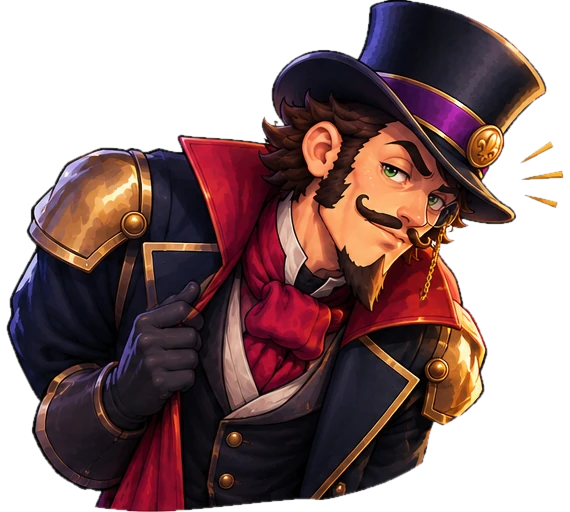
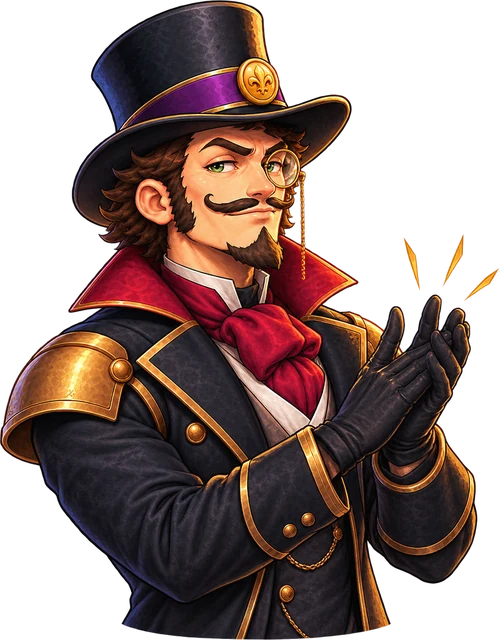
Eventos de Sir Edwards: aplauso para la racha y brindis para el récord personal
Claude-Session: https://claude.ai/code/session_01LDEVpXLeCAaeeLc8s8jMte

diff --git a/src/utils/sir-events.js b/src/utils/sir-events.js
@@ -46,7 +46,7 @@ const SEQSirEvents = (function () {
     broken: 'assets/character/event_siredwards_visit.webp',
     comeback: 'assets/character/event_siredwards_comeback.webp',
     weak: 'assets/character/event_siredwards_visit.webp',
-    record: 'assets/character/event_siredwards_streak.webp',
+    record: 'assets/character/event_siredwards_record.webp',
     streak: 'assets/character/event_siredwards_streak.webp',
     day: 'assets/character/event_siredwards_day.webp',
     night: 'assets/character/event_siredwards_night.webp'
